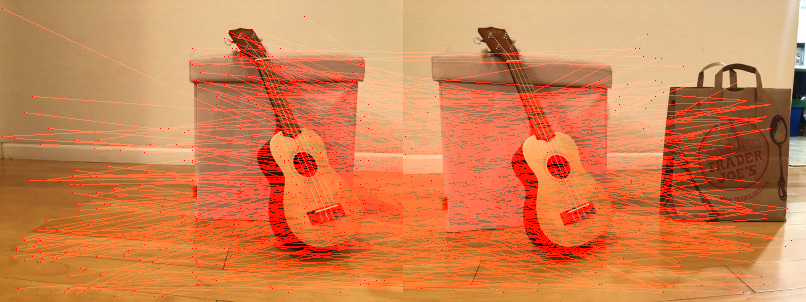
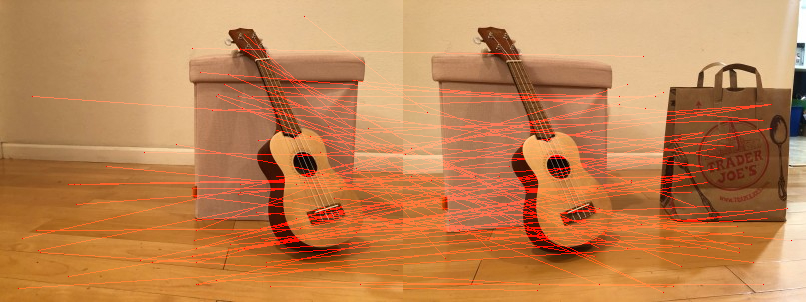
update part B

diff --git a/src/homography.cpp b/src/homography.cpp
@@ -353,9 +353,8 @@ vector<vector<int>> featureMatching(const FloatImage &im1, const FloatImage &im2
         float smallestDistance = FLT_MAX;
         float secondSmallest = FLT_MAX;
         float ssd = FLT_MAX;
-        vector<int> indices(2);
+        vector<int> indices = {0, 0};
         bool validSSD = false;
-;
         
         // Lowe's ratio test? Consider thresholding (recommended starter th=0.5)
         // Lowering this threshold will improve the quality of matches but decrease the overall amount. Optimize for this tradeoff?
@@ -390,7 +389,7 @@ vector<vector<int>> featureMatching(const FloatImage &im1, const FloatImage &im2
     stable_sort(matchIndexDist.begin(), matchIndexDist.end(), [](tuple<vector<int>, float> dist1, tuple<vector<int>, float> dist2) {return get<1>(dist1) < get<1>(dist2);});
 
     // extract the sorted matching indicies
-    for(int k = 0; k < (int) matchIndexDist.size(); k++){
+    for(int k = 0; k < (int) matchIndexDist.size(); k++) {
         matchIndices.push_back(get<0>(matchIndexDist[k]));
     }
     return matchIndices;
@@ -682,6 +681,28 @@ FloatImage showMatchingPoints(const FloatImage &im1, const FloatImage &im2){
     cout << "feature finding done" << endl;
     feature1 = suppress(500, feature1);
     feature2 = suppress(500, feature2);
+
+    // ---------- visualize supressed feature points ----------
+    // FloatImage output1(im1.width(), im1.height(), im1.channels());
+    // FloatImage output2(im1.width(), im1.height(), im1.channels());
+    // for (int i = 0; i < output1.width(); i++) {
+	// 	for (int j = 0; j < output1.height(); j++) {
+	// 		for (int c = 0; c < output1.channels(); c++) {
+    //             output1(i, j, c) = im1(i, j, c);
+    //             output2(i, j, c) = im2(i, j, c);
+    //         }
+    //     }
+    // }
+    // for (int i = 0; i < (int) feature1.size(); i++) {
+    //     output1(feature1[i][1]*pow(2,feature1[i][3]+1), feature1[i][2]*pow(2,feature1[i][3]+1), 0) = 1;
+    //     output1(feature1[i][1]*pow(2,feature1[i][3]+1), feature1[i][2]*pow(2,feature1[i][3]+1), 1) = 0;
+    //     output1(feature1[i][1]*pow(2,feature1[i][3]+1), feature1[i][2]*pow(2,feature1[i][3]+1), 2) = 0;
+    //     output2(feature2[i][1]*pow(2,feature2[i][3]+1), feature2[i][2]*pow(2,feature2[i][3]+1), 0) = 1;
+    //     output2(feature2[i][1]*pow(2,feature2[i][3]+1), feature2[i][2]*pow(2,feature2[i][3]+1), 1) = 0;
+    //     output2(feature2[i][1]*pow(2,feature2[i][3]+1), feature2[i][2]*pow(2,feature2[i][3]+1), 2) = 0;
+    // }
+    // output1.write("../data/output/supress1.jpg");
+    // output2.write("../data/output/supress2.jpg");
     
     cout << "feature suppression done" << endl;
     vector<vector<float>> descriptor1 = featureDescriptors(im1, pyra1, feature1);

diff --git a/src/mosaic.cpp b/src/mosaic.cpp
@@ -344,7 +344,7 @@ FloatImage stitchCylinder(vector<FloatImage> &images, vector<int> boundaries, in
         if (localX < newBoundaries[currentImage * 2] + 20 && currentImage >= 1){
             blendBack = true;
         }
-        if (localX > newBoundaries[currentImage * 2 + 1] - 20 && currentImage <= images.size() - 1){
+        if (localX > newBoundaries[currentImage * 2 + 1] - 20 && currentImage <= (int) images.size() - 1){
             blendForward = true;
         }
         for (int y = offset; y < result.height() - offset; y ++){
@@ -409,7 +409,7 @@ vector<int> convertBoundaries(vector<int> boundaries, int radius, int focal, int
 // output: circumference of the proposed cylinder
 int calculateCircumference(const vector<int> boundaries){
     int circumference = 0;
-    for (int i = 0; i <= boundaries.size() - 1; i += 2 ){
+    for (int i = 0; i <= (int) boundaries.size() - 1; i += 2 ){
         circumference += boundaries[i + 1] - boundaries[i];
     }
     cout<< "circumference = " << circumference << endl;

diff --git a/src/main.cpp b/src/main.cpp
@@ -83,6 +83,7 @@ void testWarpAll(){
 		results[i- 1].write(DIR "/output/cylinder-warp" + std::to_string(i) + ".jpg");
 	}
 }
+
 void test360(){
 	// read in the images
 	vector<FloatImage> images;
@@ -95,6 +96,7 @@ void test360(){
 	 FloatImage result = stitchCylinder(images, boundaries, focal);
 	result.write(DIR "/output/panorama360.jpg");
 }
+
 void testFeatures(){
 	const FloatImage im1(DATA_DIR "/input/ukulele1.jpg");
 	const FloatImage im2(DATA_DIR "/input/ukulele2.jpg");
